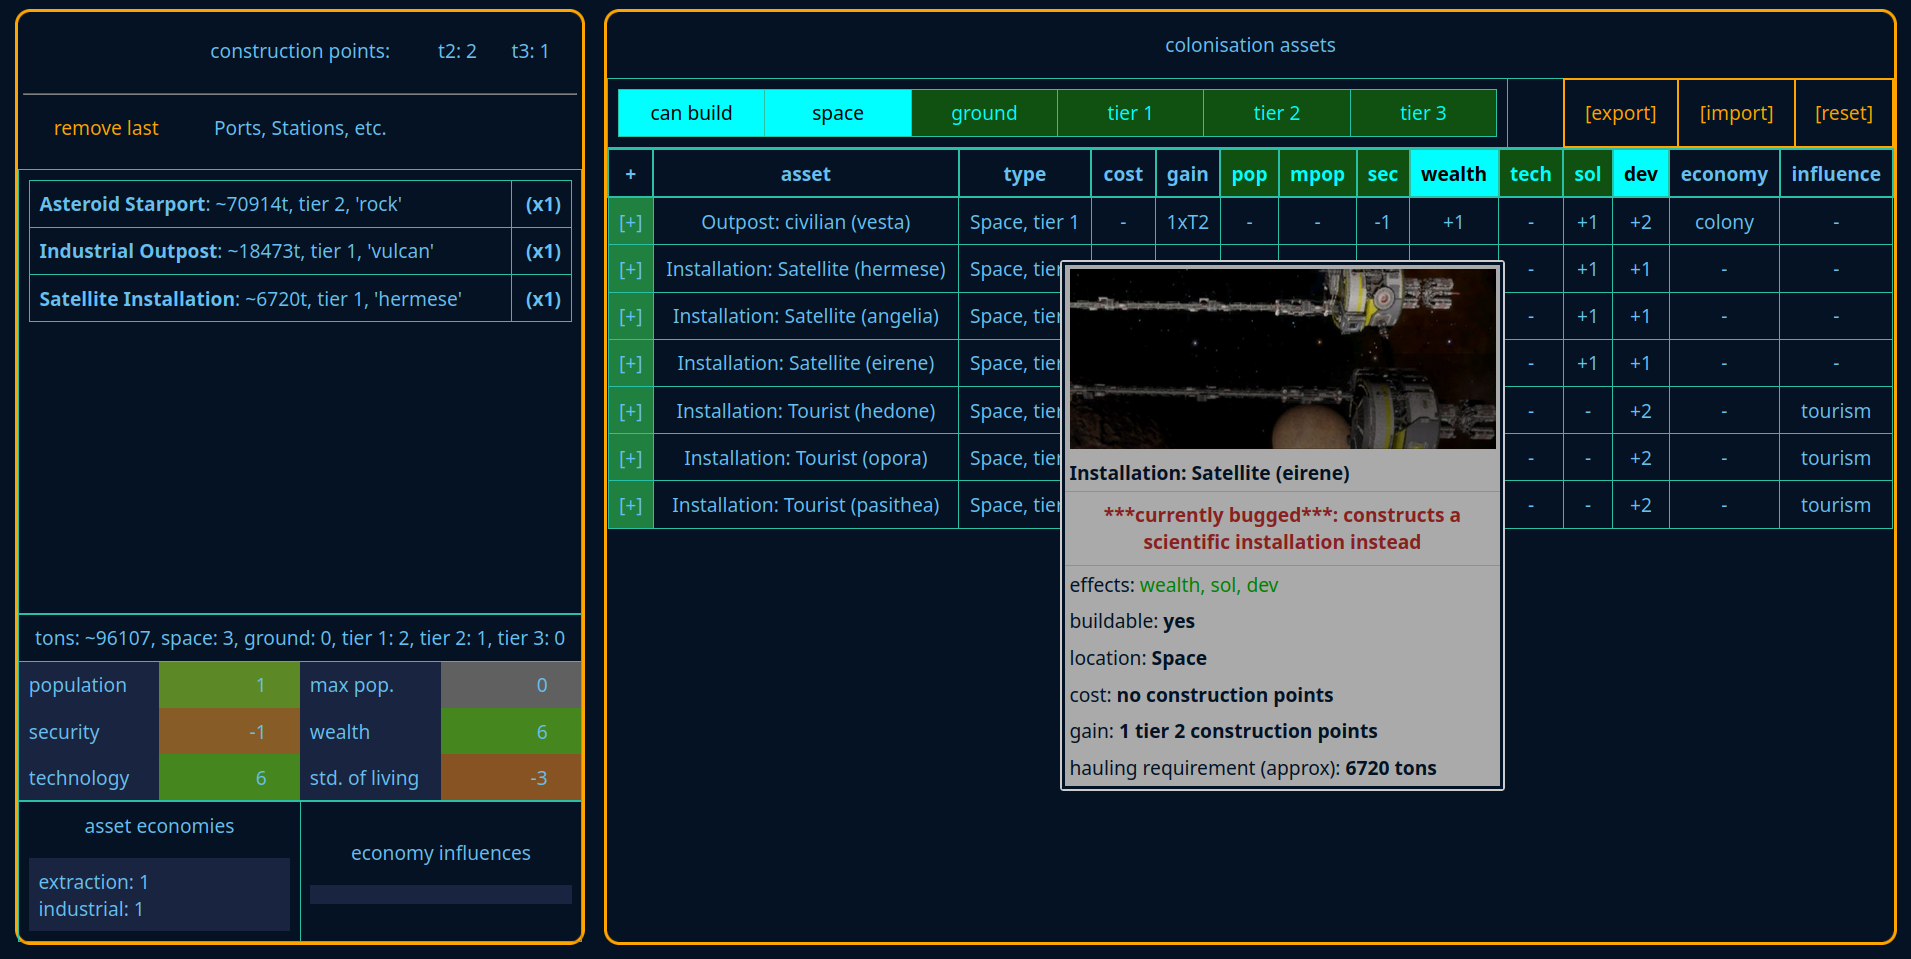
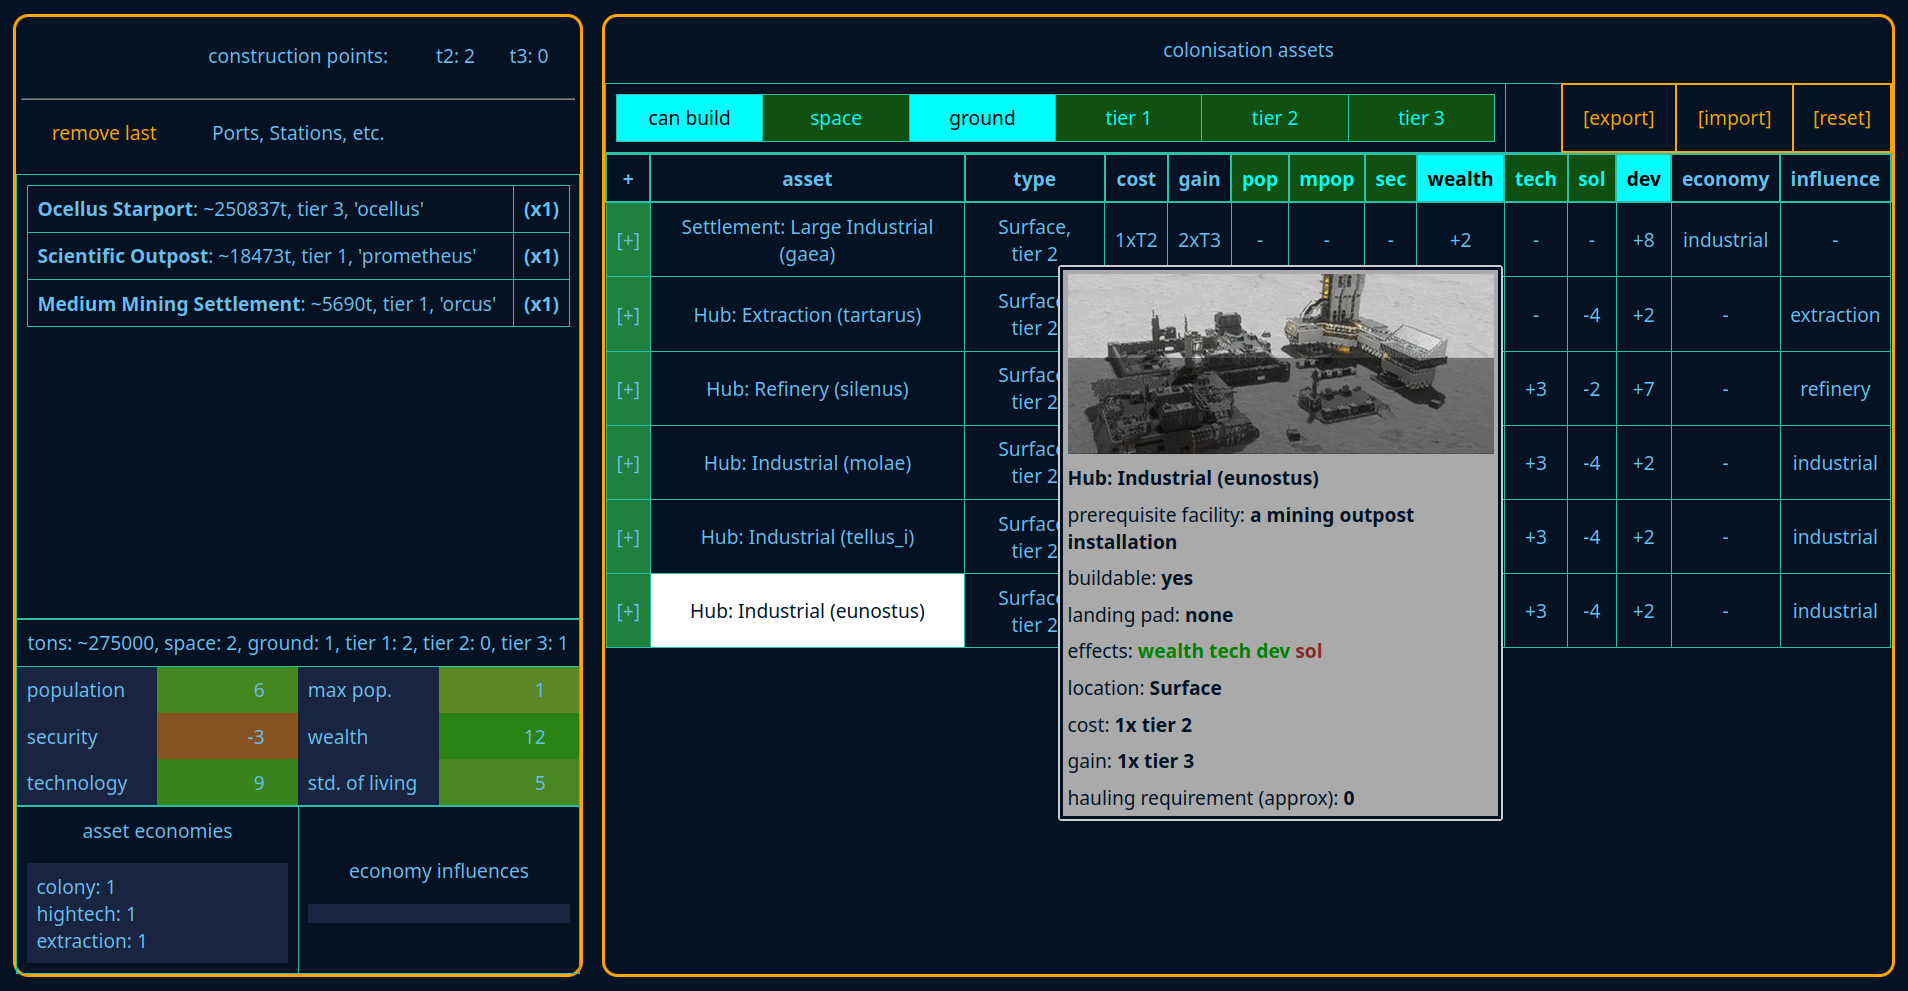
update screenshot

Changed region(s): [[0.0, 0.0, 1.0, 0.9979], [0.8349, 0.6048, 0.8658, 0.635], [0.7731, 0.5746, 0.804, 0.6048]]

diff --git a/index.html b/index.html
@@ -999,9 +999,9 @@ const assetRequirements = {
     io: { req: ["demeter"], reqText: 'a space farm (agricultural installation)' },
     alala: { req: ["vacuna", "alastor"], reqText: 'a military installation' },
     ares: { req: ["vacuna", "alastor"], reqText: 'a military installation' },
-    molae: { req: ["euthenia", "phorcys"], reqText: 'a mining outpost (installation)' },
-    tellus_i: { req: ["euthenia", "phorcys"], reqText: 'a mining outpost (installation)' },
-    eunostus: { req: ["euthenia", "phorcys"], reqText: 'a mining outpost (installation)' },
+    molae: { req: ["euthenia", "phorcys"], reqText: 'a mining outpost installation' },
+    tellus_i: { req: ["euthenia", "phorcys"], reqText: 'a mining outpost installation' },
+    eunostus: { req: ["euthenia", "phorcys"], reqText: 'a mining outpost installation' },
     dicaeosyne: { req: ["enodia", "ichnaea"], reqText: 'a relay installation' },
     poena: { req: ["enodia", "ichnaea"], reqText: 'a relay installation' },
     eunomia: { req: ["enodia", "ichnaea"], reqText: 'a relay installation' },
@@ -1789,15 +1789,15 @@ function assetInfo(asset, variant, posn) {
     }
 
     if (pos.length) {
-        effects += '<font color="green">';
-        effects += pos.join(', ');
-        effects += '</font>\x0a';
+        effects += '<b><font color="green">';
+        effects += pos.join('\x0a');
+        effects += '</font></b>\x0a';
     }
 
     if (neg.length) {
-        effects += '<font color="#882828">'
-        effects += neg.join(', ');
-        effects += '</font>';
+        effects += '<b><font color="#882828">'
+        effects += neg.join('\x0a');
+        effects += '</font></b>';
     }
 
 
